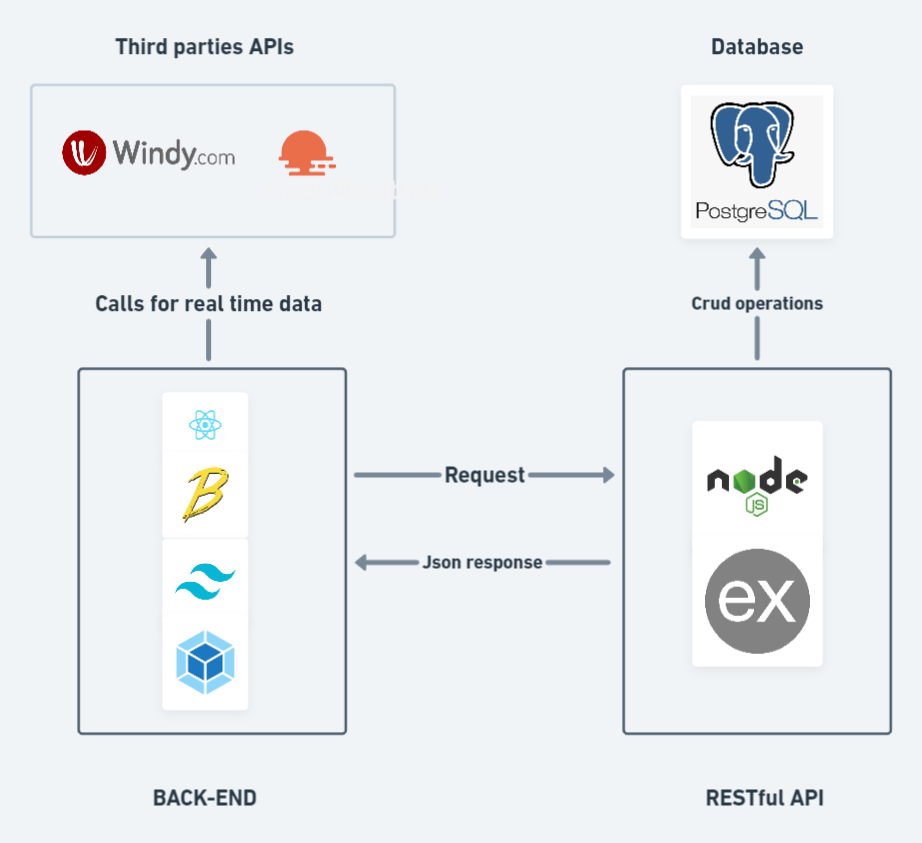
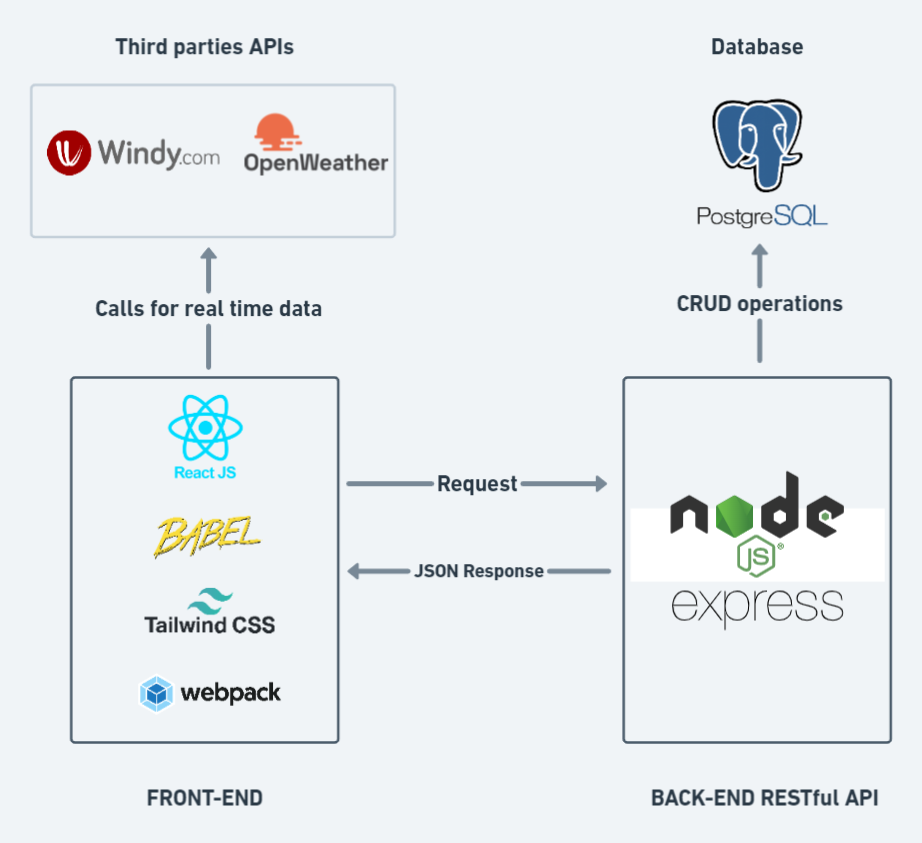
modify readme

diff --git a/README.md b/README.md
@@ -1,10 +1,10 @@
 # Introduction 👋
 
-Cabaigne is a web application that help (tourists | local) discover beaches in tunisa.
+Cabaigne is a PERN stack web application that helps (tourists | local) discover beaches in Tunisa.
 
-the goal behind this app is to promote tunisian beaches(because we have awesome ones !!) to people around the world which can support tourism in our country and therefore help locals.
+The goal behind this app is to promote tunisian beaches (because we have awesome ones !!) to people around the world which can support tourism in our country and therefore help locals.
 
-Cabaigne also provides informations about the beach (entertainment options | safety | accessibility ...), real time sea state(calm | agitated | moderate) and weather from [https://api.windy.com/](Windy API) and [https://openweathermap.org/](OpenWeather API)
+Cabaigne also provides informations related to the beach (entertainment options | safety | accessibility ...), real time sea state(calm | agitated | moderate), weather from [https://api.windy.com/](Windy API) and [https://openweathermap.org/](OpenWeather API)
 
 # let's get technical 👨💻
 
@@ -14,6 +14,11 @@ Cabaigne also provides informations about the beach (entertainment options | saf
 
 
 ## Back-End ⚙:
+
+The backend server and RESTFul API are written with expressjs. the database is postgresql and to communicate between them we use
+Sequelize ORM.
+
+We use JWT token for authentication
 
 ### Dependencies 🔗
 
@@ -31,20 +36,19 @@ View the complete list of Back-End dependencies in the corresponding [package.js
 
 ### routes 🚈
 
-- `/api/v1/beach/allbeaches`: extract all added with corresponding posts(eager loading) from database.
+- `/api/v1/beach/allbeaches`: extract all beaches with corresponding posts(eager loading) from database.
 - `/api/v1/posts/allposts`:   extract all posts with corresponding user(eager loading) from database.
 - `/api/v1/beach/newbeach`:   add new beach to database(only accessible by admins)
-- `/api/v1/uploads/azureblopuploaduser`: add upload azure image url to the corresponding user row.
-- `/api/v1/uploads/azureblopuploadbeach`: add upload beach image url to the corresponding user row.
-- `/api/v1/user/allpinnedbeaches/:id`:  extract all beaches pinned by `:id`.
+- `/api/v1/uploads/azureblopuploaduser`:  add azure image url to the corresponding user row.
+- `/api/v1/uploads/azureblopuploadbeach`: add azure beach image url to the corresponding beach row.
+- `/api/v1/user/allpinnedbeaches/:id`:  extract all beaches pinned by `:id`(id corresponds to user).
 - `/api/v1/auth/login`: verify user creds and return a signed jwt token.
 
 ## Front-End 🌐:
 
-The backend server and RESTFul API are written with expressjs. the database is postgresql and to communicate between them we use
-Sequelize ORM.
+The front-End is written using ReactJS library, tailwind, Webpack to bundle all the javascript files and Babel for javascript compatibilty between all browsers.
 
-We use JWT token for authentication
+We use `axios` for making requests to APIs (server and third parties).
 
 ### Dependencies 🔗
 
@@ -75,7 +79,7 @@ View the complete list of Front-End dependencies in the corresponding [package.j
 
 ### Deployment Tools 🛠:
 
-`github actions`: for our **CI/CD** pipeline we decided to go with github actions to automate the build, test and deployment process by writing workflows with `yaml` syntax in a `.github` folder inside the repo.
+`github actions`: For our **CI/CD** pipeline we decided to go with github actions to automate the build, test and deployment process by writing workflows with `yaml` syntax in a `.github` folder inside the repo.
 
 find backend tests workflow here [workflows](.github/workflows/integrate_backend.yml)
 find deployment workflow here [workflows](.github/workflows/deployment-stage.yml)
@@ -86,4 +90,21 @@ find deployment workflow here [workflows](.github/workflows/deployment-stage.yml
 
 `Nginx`: as react built-in server is not suitable for production apps we use nginx web server. Nginx will manage all the requests and will pass it to the **application server** that is connected with a database server.
 
-`Docker`: 
+`Docker`: Docker containers holds dependencies and libraries that our application needs. therefore eliminate the need of installing dependencies manually. we were also able to create a separate dev and production environment. In the DEV environment we create a container for the Front-End, another for Back-End and the last one for postgreSQL while we only need the first 2 containers in the production and add nginx service to the Front-End. view our [docker-compose production file](docker-compose.prod.yml) [docker-compose development file](docker-compose.dev.yml).
+
+## Run 🔌:
+
+Make sure to have docker installed on your system
+
+* Clone the repository
+* run `docker-compose -f docker-compose.dev.yml up --build`
+* access `http://localhost:3010` to interact with the application `localhost:3001` for the API and ``localhost:5432` for the database
+
+## Disclaimer❗
+
+do not use any real informations emails |passwords!! the app is still in development and lacks security testing.
+
+## Authors ✒
+
+[omar yahya](https://www.linkedin.com/in/omaryahia1/)
+[boufaden alaedine](https://www.linkedin.com/in/b-alaedine/)
